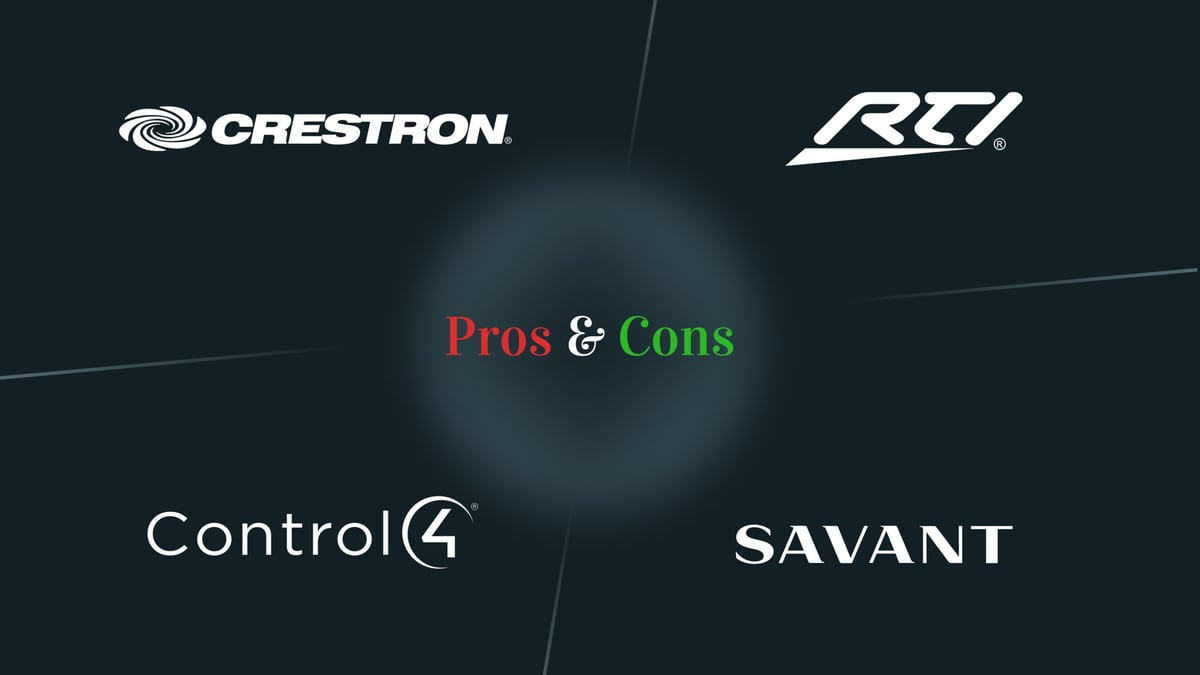
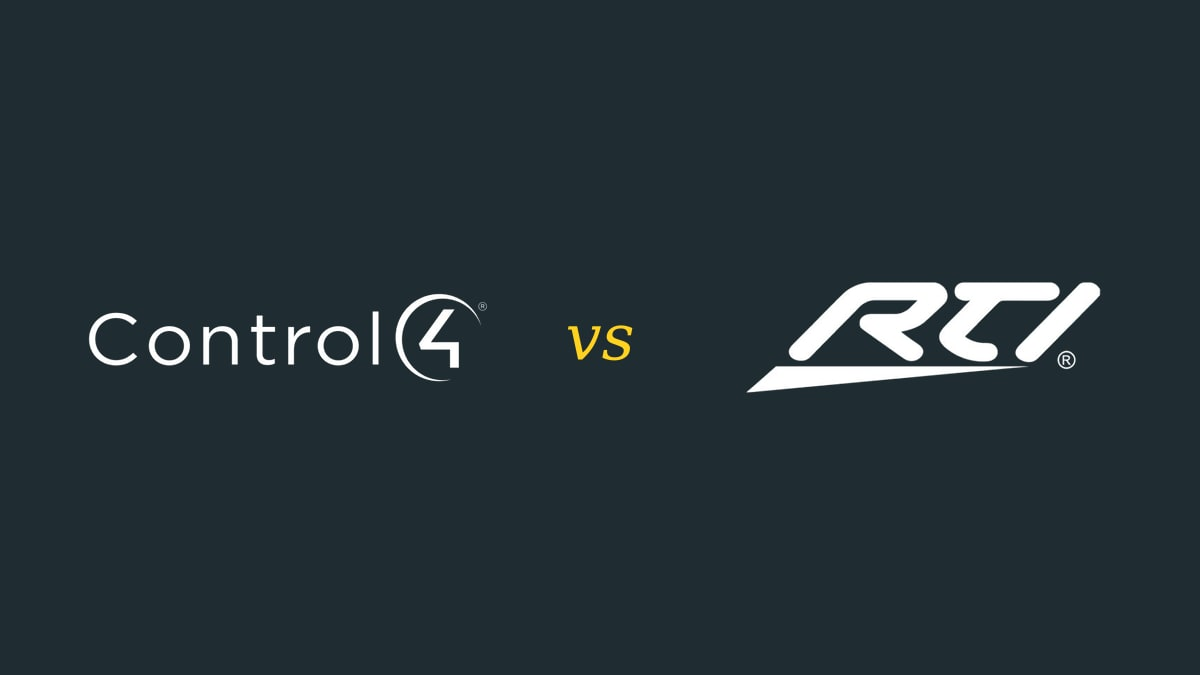
Blog: Control4 vs RTI cover shows only the two brands; add camera-drone section to trends post
Claude-Session: https://claude.ai/code/session_019KgaTAqwDTASDAcBHng9Ba

diff --git a/posts/smart-home-trends-2027.html b/posts/smart-home-trends-2027.html
@@ -30,7 +30,7 @@
 
   <script>document.documentElement.classList.add('js')</script>
   <link rel="stylesheet" href="../assets/css/site.css?v=20261116">
-  <script type="application/ld+json">{"@context":"https://schema.org","@graph":[{"@type":"LocalBusiness","@id":"https://www.island-integration.com/#business","name":"Island Integration","url":"https://www.island-integration.com/","logo":"https://www.island-integration.com/public/logo.png","image":"https://www.island-integration.com/public/og/home.jpg","description":"Smart home automation, networking, audio-visual and security integration in Nassau, Bahamas.","telephone":"+12428209013","address":{"@type":"PostalAddress","addressLocality":"Nassau","addressRegion":"New Providence","addressCountry":"BS"},"areaServed":[{"@type":"Place","name":"Nassau"},{"@type":"Place","name":"New Providence"},{"@type":"Place","name":"Paradise Island"},{"@type":"Place","name":"Lyford Cay"},{"@type":"Place","name":"Old Fort Bay"},{"@type":"Place","name":"Albany"},{"@type":"Place","name":"Ocean Club"},{"@type":"Place","name":"Exuma"},{"@type":"Place","name":"Eleuthera"},{"@type":"Place","name":"Harbour Island"},{"@type":"Place","name":"Abaco"},{"@type":"Place","name":"Family Islands"}],"openingHoursSpecification":[{"@type":"OpeningHoursSpecification","dayOfWeek":["Monday","Tuesday","Wednesday","Thursday","Friday"],"opens":"09:00","closes":"17:00"}],"sameAs":["https://www.facebook.com/people/Island-Integration/61580228917460/","https://bs.linkedin.com/in/jonathan-cartwright-437667253"]},{"@type":"BreadcrumbList","itemListElement":[{"@type":"ListItem","position":1,"name":"Home","item":"https://www.island-integration.com/"},{"@type":"ListItem","position":2,"name":"Blog","item":"https://www.island-integration.com/blog.html"},{"@type":"ListItem","position":3,"name":"Smart Home Trends for 2027: What Is Worth Installing"}]},{"@type":"BlogPosting","@id":"https://www.island-integration.com/posts/smart-home-trends-2027.html#article","mainEntityOfPage":"https://www.island-integration.com/posts/smart-home-trends-2027.html","headline":"Smart Home Trends for 2027: What Is Worth Installing","description":"The smart home ideas worth acting on in 2027, and the ones to treat with caution, from an integrator working in Bahamian homes.","image":"https://www.island-integration.com/public/og/smart-home-trends-2027.jpg","datePublished":"2026-11-16","dateModified":"2026-11-16","author":{"@id":"https://www.island-integration.com/#business"},"publisher":{"@id":"https://www.island-integration.com/#business"},"inLanguage":"en","wordCount":662}]}</script>
+  <script type="application/ld+json">{"@context":"https://schema.org","@graph":[{"@type":"LocalBusiness","@id":"https://www.island-integration.com/#business","name":"Island Integration","url":"https://www.island-integration.com/","logo":"https://www.island-integration.com/public/logo.png","image":"https://www.island-integration.com/public/og/home.jpg","description":"Smart home automation, networking, audio-visual and security integration in Nassau, Bahamas.","telephone":"+12428209013","address":{"@type":"PostalAddress","addressLocality":"Nassau","addressRegion":"New Providence","addressCountry":"BS"},"areaServed":[{"@type":"Place","name":"Nassau"},{"@type":"Place","name":"New Providence"},{"@type":"Place","name":"Paradise Island"},{"@type":"Place","name":"Lyford Cay"},{"@type":"Place","name":"Old Fort Bay"},{"@type":"Place","name":"Albany"},{"@type":"Place","name":"Ocean Club"},{"@type":"Place","name":"Exuma"},{"@type":"Place","name":"Eleuthera"},{"@type":"Place","name":"Harbour Island"},{"@type":"Place","name":"Abaco"},{"@type":"Place","name":"Family Islands"}],"openingHoursSpecification":[{"@type":"OpeningHoursSpecification","dayOfWeek":["Monday","Tuesday","Wednesday","Thursday","Friday"],"opens":"09:00","closes":"17:00"}],"sameAs":["https://www.facebook.com/people/Island-Integration/61580228917460/","https://bs.linkedin.com/in/jonathan-cartwright-437667253"]},{"@type":"BreadcrumbList","itemListElement":[{"@type":"ListItem","position":1,"name":"Home","item":"https://www.island-integration.com/"},{"@type":"ListItem","position":2,"name":"Blog","item":"https://www.island-integration.com/blog.html"},{"@type":"ListItem","position":3,"name":"Smart Home Trends for 2027: What Is Worth Installing"}]},{"@type":"BlogPosting","@id":"https://www.island-integration.com/posts/smart-home-trends-2027.html#article","mainEntityOfPage":"https://www.island-integration.com/posts/smart-home-trends-2027.html","headline":"Smart Home Trends for 2027: What Is Worth Installing","description":"The smart home ideas worth acting on in 2027, and the ones to treat with caution, from an integrator working in Bahamian homes.","image":"https://www.island-integration.com/public/og/smart-home-trends-2027.jpg","datePublished":"2026-11-16","dateModified":"2026-11-16","author":{"@id":"https://www.island-integration.com/#business"},"publisher":{"@id":"https://www.island-integration.com/#business"},"inLanguage":"en","wordCount":832}]}</script>
 </head>
 <body>
   <a class="skip-link" href="#main">Skip to content</a>
@@ -66,7 +66,7 @@
           <p class="eyebrow">Smart home</p>
           <h1>Smart Home Trends for 2027: What Is Worth Installing</h1>
           <p class="lede">Every year brings a new list of things your home supposedly needs. These are the developments we think genuinely improve a home in the Bahamas, and a few we would wait on.</p>
-          <p class="post-meta"><span>By Island Integration</span><span><time datetime="2026-11-16">Nov 16, 2026</time></span><span>3 min read</span></p>
+          <p class="post-meta"><span>By Island Integration</span><span><time datetime="2026-11-16">Nov 16, 2026</time></span><span>4 min read</span></p>
           <div class="post-cover"><picture><source type="image/webp" srcset="../public/blog/smart-home-trends-2027-640.webp 640w, ../public/blog/smart-home-trends-2027-1200.webp 1200w" sizes="(min-width: 76em) 72rem, 100vw"><img src="../public/blog/smart-home-trends-2027.jpg" alt="Compact indoor security camera drone hovering above its charging dock" width="1200" height="675" loading="eager" decoding="async" fetchpriority="high"></picture></div>
         </div>
       </header>
@@ -94,6 +94,10 @@
 
 <h2 id="outdoor">7. Outdoor living</h2>
 <p>Terraces, pool decks and docks are getting the same attention as interiors: weatherproof televisions, landscape audio, lighting scenes and Wi-Fi that reaches the water. In our climate, equipment choice is everything. See <a href="outdoor-audio-patio-pool.html">outdoor audio for patios and pools</a>.</p>
+
+<h2 id="camera-drones">8. Indoor camera drones</h2>
+<p>One of the more eye-catching arrivals is the indoor security drone: a small camera that lifts off from a dock, flies a preset route through the house when a sensor is triggered or when you ask it to, and returns to charge. One device can look into several rooms, which appeals to owners who are away for long periods and do not want a fixed camera in every room. When it is docked the camera is covered, which helps with privacy.</p>
+<p>We see it as a useful addition for some homes, not a replacement for a designed system. It is an indoor device, so it does nothing for gates, docks and perimeters, where fixed <a href="../services/security-access-control.html">cameras</a> rated for salt air still do the work. It depends on good Wi-Fi in every room it flies through, it cannot open closed doors, and like any new category it is worth letting the first version prove itself. For an absentee owner with a reliable network, it is one to watch.</p>
 
 <h2 id="caution">What we would treat with caution</h2>
 <ul>

diff --git a/posts/control4-vs-rti.html b/posts/control4-vs-rti.html
@@ -67,7 +67,7 @@
           <h1>Control4 vs RTI: Which Control System Fits Your Home?</h1>
           <p class="lede">Both put the whole home on one remote, keypad or app, and both are installed and programmed by authorized dealers. They take different routes to get there. As a dealer for both, here is how we help clients choose.</p>
           <p class="post-meta"><span>By Island Integration</span><span><time datetime="2026-11-16">Nov 16, 2026</time></span><span>3 min read</span></p>
-          <div class="post-cover"><picture><source type="image/webp" srcset="../public/blog/control4-vs-rti-640.webp 640w, ../public/blog/control4-vs-rti-1200.webp 1200w" sizes="(min-width: 76em) 72rem, 100vw"><img src="../public/blog/control4-vs-rti.jpg" alt="Crestron, RTI, Control4 and Savant logos around the words Pros and Cons" width="1200" height="675" loading="eager" decoding="async" fetchpriority="high"></picture></div>
+          <div class="post-cover"><picture><source type="image/webp" srcset="../public/blog/control4-vs-rti-640.webp 640w, ../public/blog/control4-vs-rti-1200.webp 1200w" sizes="(min-width: 76em) 72rem, 100vw"><img src="../public/blog/control4-vs-rti.jpg" alt="Control4 and RTI logos side by side" width="1200" height="675" loading="eager" decoding="async" fetchpriority="high"></picture></div>
         </div>
       </header>
       <div class="container post-body">

diff --git a/blog.html b/blog.html
@@ -87,7 +87,7 @@
           </div>
         </article>
         <article class="post-card reveal">
-          <div class="post-card__media"><picture><source type="image/webp" srcset="public/blog/control4-vs-rti-640.webp 640w, public/blog/control4-vs-rti-1200.webp 1200w" sizes="(min-width: 64em) 24rem, (min-width: 40em) 50vw, 100vw"><img src="public/blog/control4-vs-rti.jpg" alt="Crestron, RTI, Control4 and Savant logos around the words Pros and Cons" width="1200" height="675" loading="lazy" decoding="async"></picture></div>
+          <div class="post-card__media"><picture><source type="image/webp" srcset="public/blog/control4-vs-rti-640.webp 640w, public/blog/control4-vs-rti-1200.webp 1200w" sizes="(min-width: 64em) 24rem, (min-width: 40em) 50vw, 100vw"><img src="public/blog/control4-vs-rti.jpg" alt="Control4 and RTI logos side by side" width="1200" height="675" loading="lazy" decoding="async"></picture></div>
           <div class="post-card__body">
             <p class="post-card__meta">Smart home &middot; <time datetime="2026-11-16">Nov 16, 2026</time></p>
             <h3><a href="posts/control4-vs-rti.html">Control4 vs RTI: Which Control System Fits Your Home?</a></h3>
